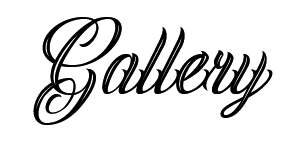
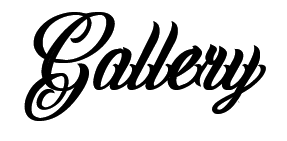
removed lines

Changed region(s): [[0.0836, 0.0851, 0.9477, 0.8794]]

diff --git a/public/index.html b/public/index.html
@@ -82,7 +82,7 @@
             
 		<div class="inner-container">
             <div class="wedding-info-title row">
-						<img src="res/wedding-title.png" id="wedding-title" alt="Our Wedding" />
+						<img src="https://firebasestorage.googleapis.com/v0/b/wedding-website-d3f9d.appspot.com/o/wedding-title.png?alt=media&token=6565ba26-bfd5-4817-a802-385da420d3ea" id="wedding-title" alt="Our Wedding" />
                 <p><h2><span class="month">January</span> 13<sup>th</sup> 2018</h2></p>
 					</div><!-- .wedding-info-title .row -->
             
@@ -115,25 +115,25 @@
                 
             <section id="details" class="details">
                 <div class="wedding-info-title row">
-						<img src="https://firebasestorage.googleapis.com/v0/b/wedding-website-d3f9d.appspot.com/o/Details.png?alt=media&token=dab345dd-26c4-4748-bd3d-31848434e117" id="details-title" alt="Details" />
+						<img src="https://firebasestorage.googleapis.com/v0/b/wedding-website-d3f9d.appspot.com/o/Details.png?alt=media&token=105dc2fe-9ce1-4697-b4cc-8f152e6deb7b" id="details-title" alt="Details" />
 					</div><!-- .wedding-info-title .row -->
 			</section><!-- details  -->
             
             <section id="registry" class="registry">
                 <div class="wedding-info-title row">
-						<img src="https://firebasestorage.googleapis.com/v0/b/wedding-website-d3f9d.appspot.com/o/Registry.png?alt=media&token=de84097b-0b0f-4772-8a0a-6d993377725f" id="registry-title" alt="Registry" />
+						<img src="https://firebasestorage.googleapis.com/v0/b/wedding-website-d3f9d.appspot.com/o/Registry.PNG?alt=media&token=8aad48d0-7a9d-4f14-917c-728523e1a631" id="registry-title" alt="Registry" />
 					</div><!-- .wedding-info-title .row -->
 			</section><!-- registry  -->
 
 			<section id="gallery" class="gallery">
                 <div class="wedding-info-title row">
-						<img src="https://firebasestorage.googleapis.com/v0/b/wedding-website-d3f9d.appspot.com/o/Gallery.png?alt=media&token=51b9f053-9b02-4fd8-af31-a61289d42a56" id="gallery-title" alt="Gallery" />
+						<img src="https://firebasestorage.googleapis.com/v0/b/wedding-website-d3f9d.appspot.com/o/Gallery.png?alt=media&token=6bffaaac-46cc-4fb7-a3fa-75de6aa61218" id="gallery-title" alt="Gallery" />
 					</div><!-- .wedding-info-title .row -->
 			</section><!-- gallery  -->
             
             <section id="rsvp" class="rsvp">
                 <div class="wedding-info-title row">
-						<img src="https://firebasestorage.googleapis.com/v0/b/wedding-website-d3f9d.appspot.com/o/RSVP.png?alt=media&token=ec4f77f5-d9cb-4d6c-81dd-44d8a79afa6f" id="rsvp-title" alt="RSVP" />
+						<img src="https://firebasestorage.googleapis.com/v0/b/wedding-website-d3f9d.appspot.com/o/RSVP.png?alt=media&token=ffe32565-fd5a-4866-b16a-660d60e902ec" id="rsvp-title" alt="RSVP" />
 					</div><!-- .wedding-info-title .row -->
 			</section><!-- rsvp  -->
 
